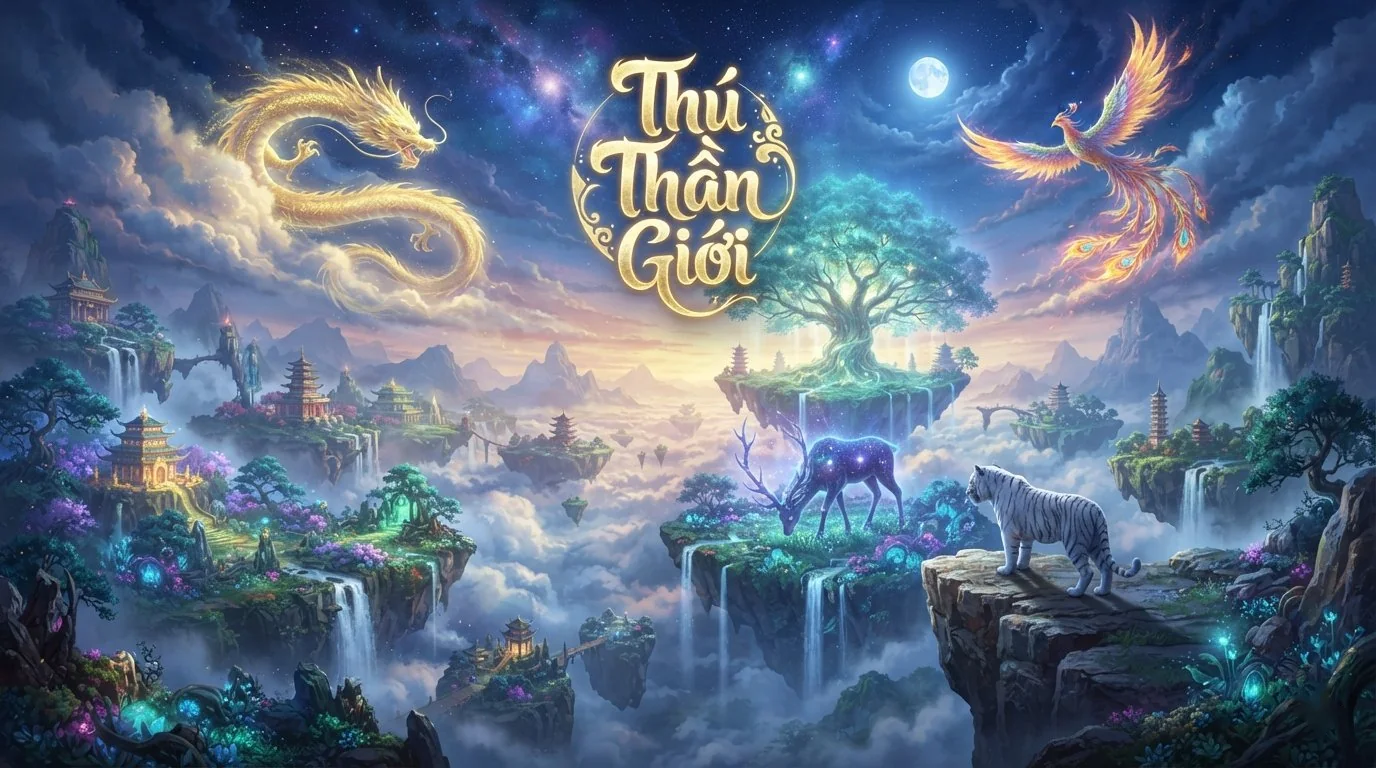
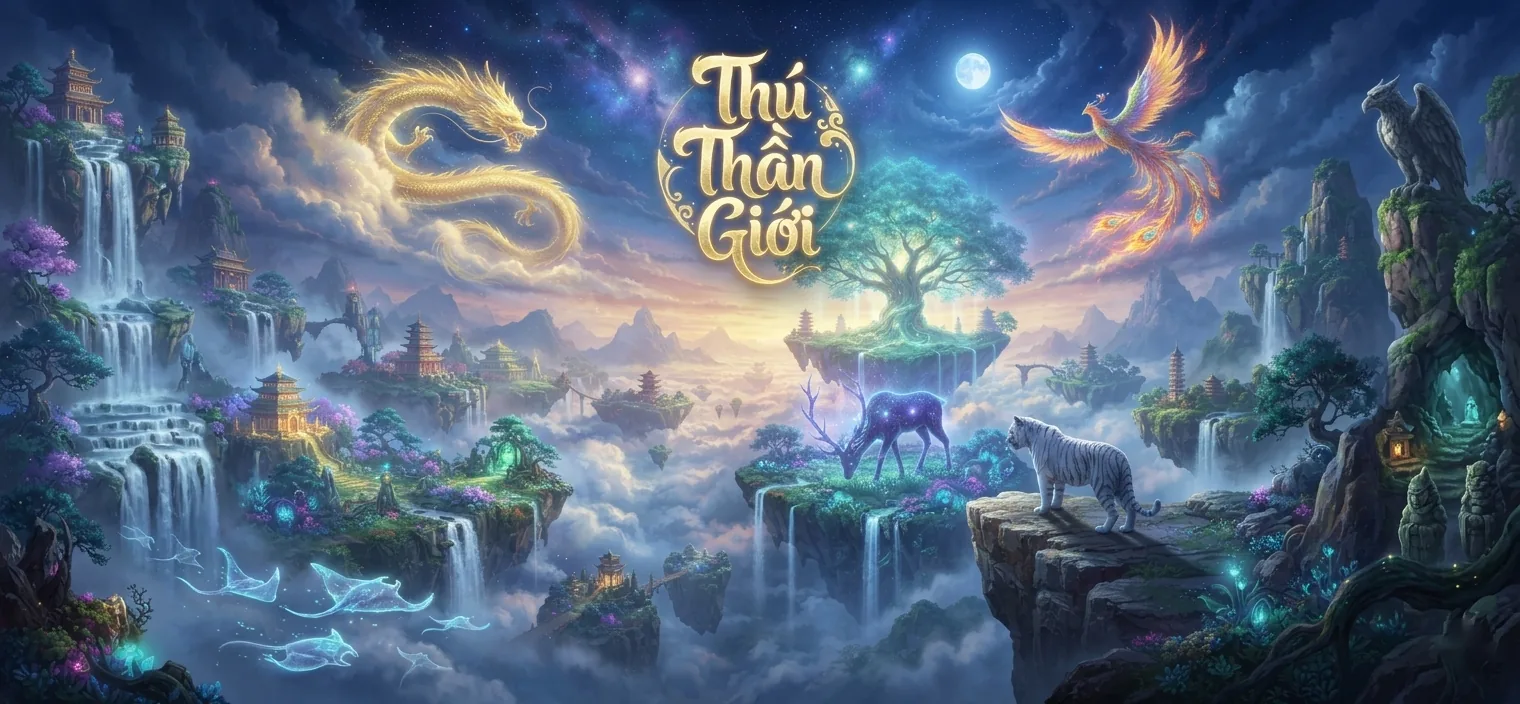
[GIAO DIEN] Man cho: thay anh nen ngang moi 780x360 (xoa dau sao goc), chu + khung nho lai nam tren thanh, thanh thap hon, thanh chay 5 giay

diff --git a/game-moi/index.html b/game-moi/index.html
@@ -10,21 +10,20 @@
 #ttg-boot .gate{position:absolute;inset:0;display:none;align-items:center;justify-content:center;padding:24px;box-sizing:border-box;background:#161826;cursor:pointer}
 #ttg-boot .gate div{font:bold clamp(20px,6.2vw,32px)/1.3 sans-serif;color:#fff;max-width:90vw}
 #ttg-boot .scene{position:absolute;inset:0}
-#ttg-boot .pic{position:absolute;inset:0;background:#0b1020 url(img-boot-ngang.webp) 50% 0%/cover no-repeat;animation:tb-in 1s ease both}
-#ttg-boot .shade{position:absolute;left:0;right:0;bottom:0;height:34%;background:linear-gradient(to top,rgba(4,10,14,.9) 0%,rgba(4,10,14,.55) 50%,rgba(4,10,14,0) 100%)}
-#ttg-boot .panel{position:absolute;left:0;right:0;bottom:0;display:flex;justify-content:center;
-  padding:0 18px calc(max(14px,5vh) + env(safe-area-inset-bottom,0px));box-sizing:border-box}
-#ttg-boot .bar{position:relative;width:min(62vw,640px);height:clamp(18px,6vh,28px);border:3px solid #f2c76a;background:#0a1418;
-  box-shadow:0 0 0 2px #040a0e,0 0 16px rgba(242,199,106,.45);overflow:hidden}
-#ttg-boot .bar i{position:absolute;left:0;top:0;bottom:0;width:0;background:repeating-linear-gradient(90deg,#6fd1a0 0 8px,#3f9c74 8px 10px);box-shadow:0 0 12px #6fd1a0}
-#ttg-boot .bar span{position:absolute;inset:0;display:flex;align-items:center;justify-content:center;font-size:clamp(14px,4.4vh,20px);line-height:1;color:#fff;
+#ttg-boot .pic{position:absolute;inset:0;background:#0b1020 url(img-boot-ngang.webp) 50% 50%/cover no-repeat;animation:tb-in 1s ease both}
+#ttg-boot .shade{position:absolute;left:0;right:0;bottom:0;height:26%;background:linear-gradient(to top,rgba(4,10,14,.9) 0%,rgba(4,10,14,.55) 50%,rgba(4,10,14,0) 100%)}
+#ttg-boot .panel{position:absolute;left:0;right:0;bottom:0;display:flex;flex-direction:column;align-items:center;justify-content:flex-end;gap:clamp(3px,1.2vh,6px);
+  padding:0 18px calc(max(6px,2.4vh) + env(safe-area-inset-bottom,0px));box-sizing:border-box}
+#ttg-boot .bar{position:relative;width:min(62vw,640px);height:clamp(10px,3.6vh,16px);border:2px solid #f2c76a;background:#0a1418;
+  box-shadow:0 0 0 1px #040a0e,0 0 10px rgba(242,199,106,.4);overflow:hidden}
+#ttg-boot .bar i{position:absolute;left:0;top:0;bottom:0;width:0;background:repeating-linear-gradient(90deg,#6fd1a0 0 6px,#3f9c74 6px 8px);box-shadow:0 0 8px #6fd1a0}
+#ttg-boot .bar span{position:absolute;inset:0;display:flex;align-items:center;justify-content:center;font-size:clamp(9px,2.6vh,12px);line-height:1;color:#fff;
   text-shadow:1px 1px 0 #000,-1px 1px 0 #000,1px -1px 0 #000,-1px -1px 0 #000}
-#ttg-boot .enter{display:none;position:absolute;left:0;right:0;top:61%;transform:translateY(-50%);padding:clamp(8px,2.6vh,16px) 12px;
-  font-size:clamp(15px,min(7vh,3.6vw),42px);line-height:1.1;color:#ffe9a0;letter-spacing:1px;white-space:nowrap;
-  background:linear-gradient(90deg,rgba(0,0,0,0),rgba(4,10,14,.62) 18%,rgba(4,10,14,.62) 82%,rgba(0,0,0,0));
-  text-shadow:0 2px 0 #000,0 0 12px rgba(255,210,74,.75);animation:tb-blink 1.3s ease-in-out infinite;cursor:pointer}
+#ttg-boot .enter{display:none;padding:clamp(2px,.8vh,4px) clamp(10px,2.4vw,18px);font-size:clamp(12px,min(4vh,2.4vw),20px);line-height:1.1;color:#ffe9a0;letter-spacing:.5px;white-space:nowrap;
+  background:rgba(4,10,14,.6);border:1px solid rgba(242,199,106,.55);border-radius:4px;
+  text-shadow:0 1px 0 #000,0 0 8px rgba(255,210,74,.7);animation:tb-blink 1.3s ease-in-out infinite;cursor:pointer}
 #ttg-boot.ready .enter{display:block}
-#ttg-boot.ready .bar{border-color:#6fd1a0;box-shadow:0 0 0 2px #040a0e,0 0 18px rgba(111,209,160,.7)}
+#ttg-boot.ready .bar{border-color:#6fd1a0;box-shadow:0 0 0 1px #040a0e,0 0 12px rgba(111,209,160,.7)}
 @keyframes tb-in{from{opacity:0;transform:scale(1.03)}to{opacity:1;transform:none}}
 @keyframes tb-blink{0%,100%{opacity:1}50%{opacity:.35}}
 @media (orientation:portrait){#ttg-boot .gate{display:flex}#ttg-boot .scene{display:none}}
@@ -66,8 +65,7 @@ canvas{position:fixed;left:0;top:0;image-rendering:pixelated;image-rendering:cri
   <div class="gate" id="tb-gate"><div id="tb-gt">Chạm vào màn hình để xoay ngang</div></div>
   <div class="scene" id="tb-scene">
     <div class="pic"></div><div class="shade"></div>
-    <div class="enter" id="tb-enter">Chạm vào màn hình để vào Thú Thần Giới</div>
-    <div class="panel"><div class="bar"><i id="boot-fill"></i><span id="tb-pct">0%</span></div></div>
+    <div class="panel"><div class="enter" id="tb-enter">Chạm vào màn hình để vào Thú Thần Giới</div><div class="bar"><i id="boot-fill"></i><span id="tb-pct">0%</span></div></div>
   </div>
 </div>
 <script>
@@ -77,14 +75,10 @@ canvas{position:fixed;left:0;top:0;image-rendering:pixelated;image-rendering:cri
   var el=document.getElementById('ttg-boot'),fill=document.getElementById('boot-fill'),pctEl=document.getElementById('tb-pct'),
     gt=document.getElementById('tb-gt'),n=0,pct=0,floor=0,ready=false,done=false,shown=false,t0=Date.now();
   function paint(){var p=Math.max(0,Math.min(100,pct));fill.style.width=p+'%';pctEl.textContent=Math.floor(p)+'%'}
+  var MIN=5000; /* thanh chạy theo thời gian: tối thiểu 5 giây mới tới 100%, dù ảnh nạp xong sớm */
   var iv=setInterval(function(){
-    var target;
-    if(ready)target=100;
-    else{var t=(Date.now()-t0)/1000;target=Math.max(floor,90*(1-Math.exp(-t/6)))}
-    var step=(target-pct)*(ready?.12:.06);
-    if(ready&&step<.5)step=.5;
-    if(!ready&&step<0)step=0;
-    pct=Math.min(target,pct+step);
+    var base=Math.min(100,(Date.now()-t0)/MIN*100);
+    pct=ready?base:Math.min(base,90);
     paint();
     if(ready&&pct>=100&&!shown){shown=true;pct=100;paint();el.className='ready'}
   },50);
